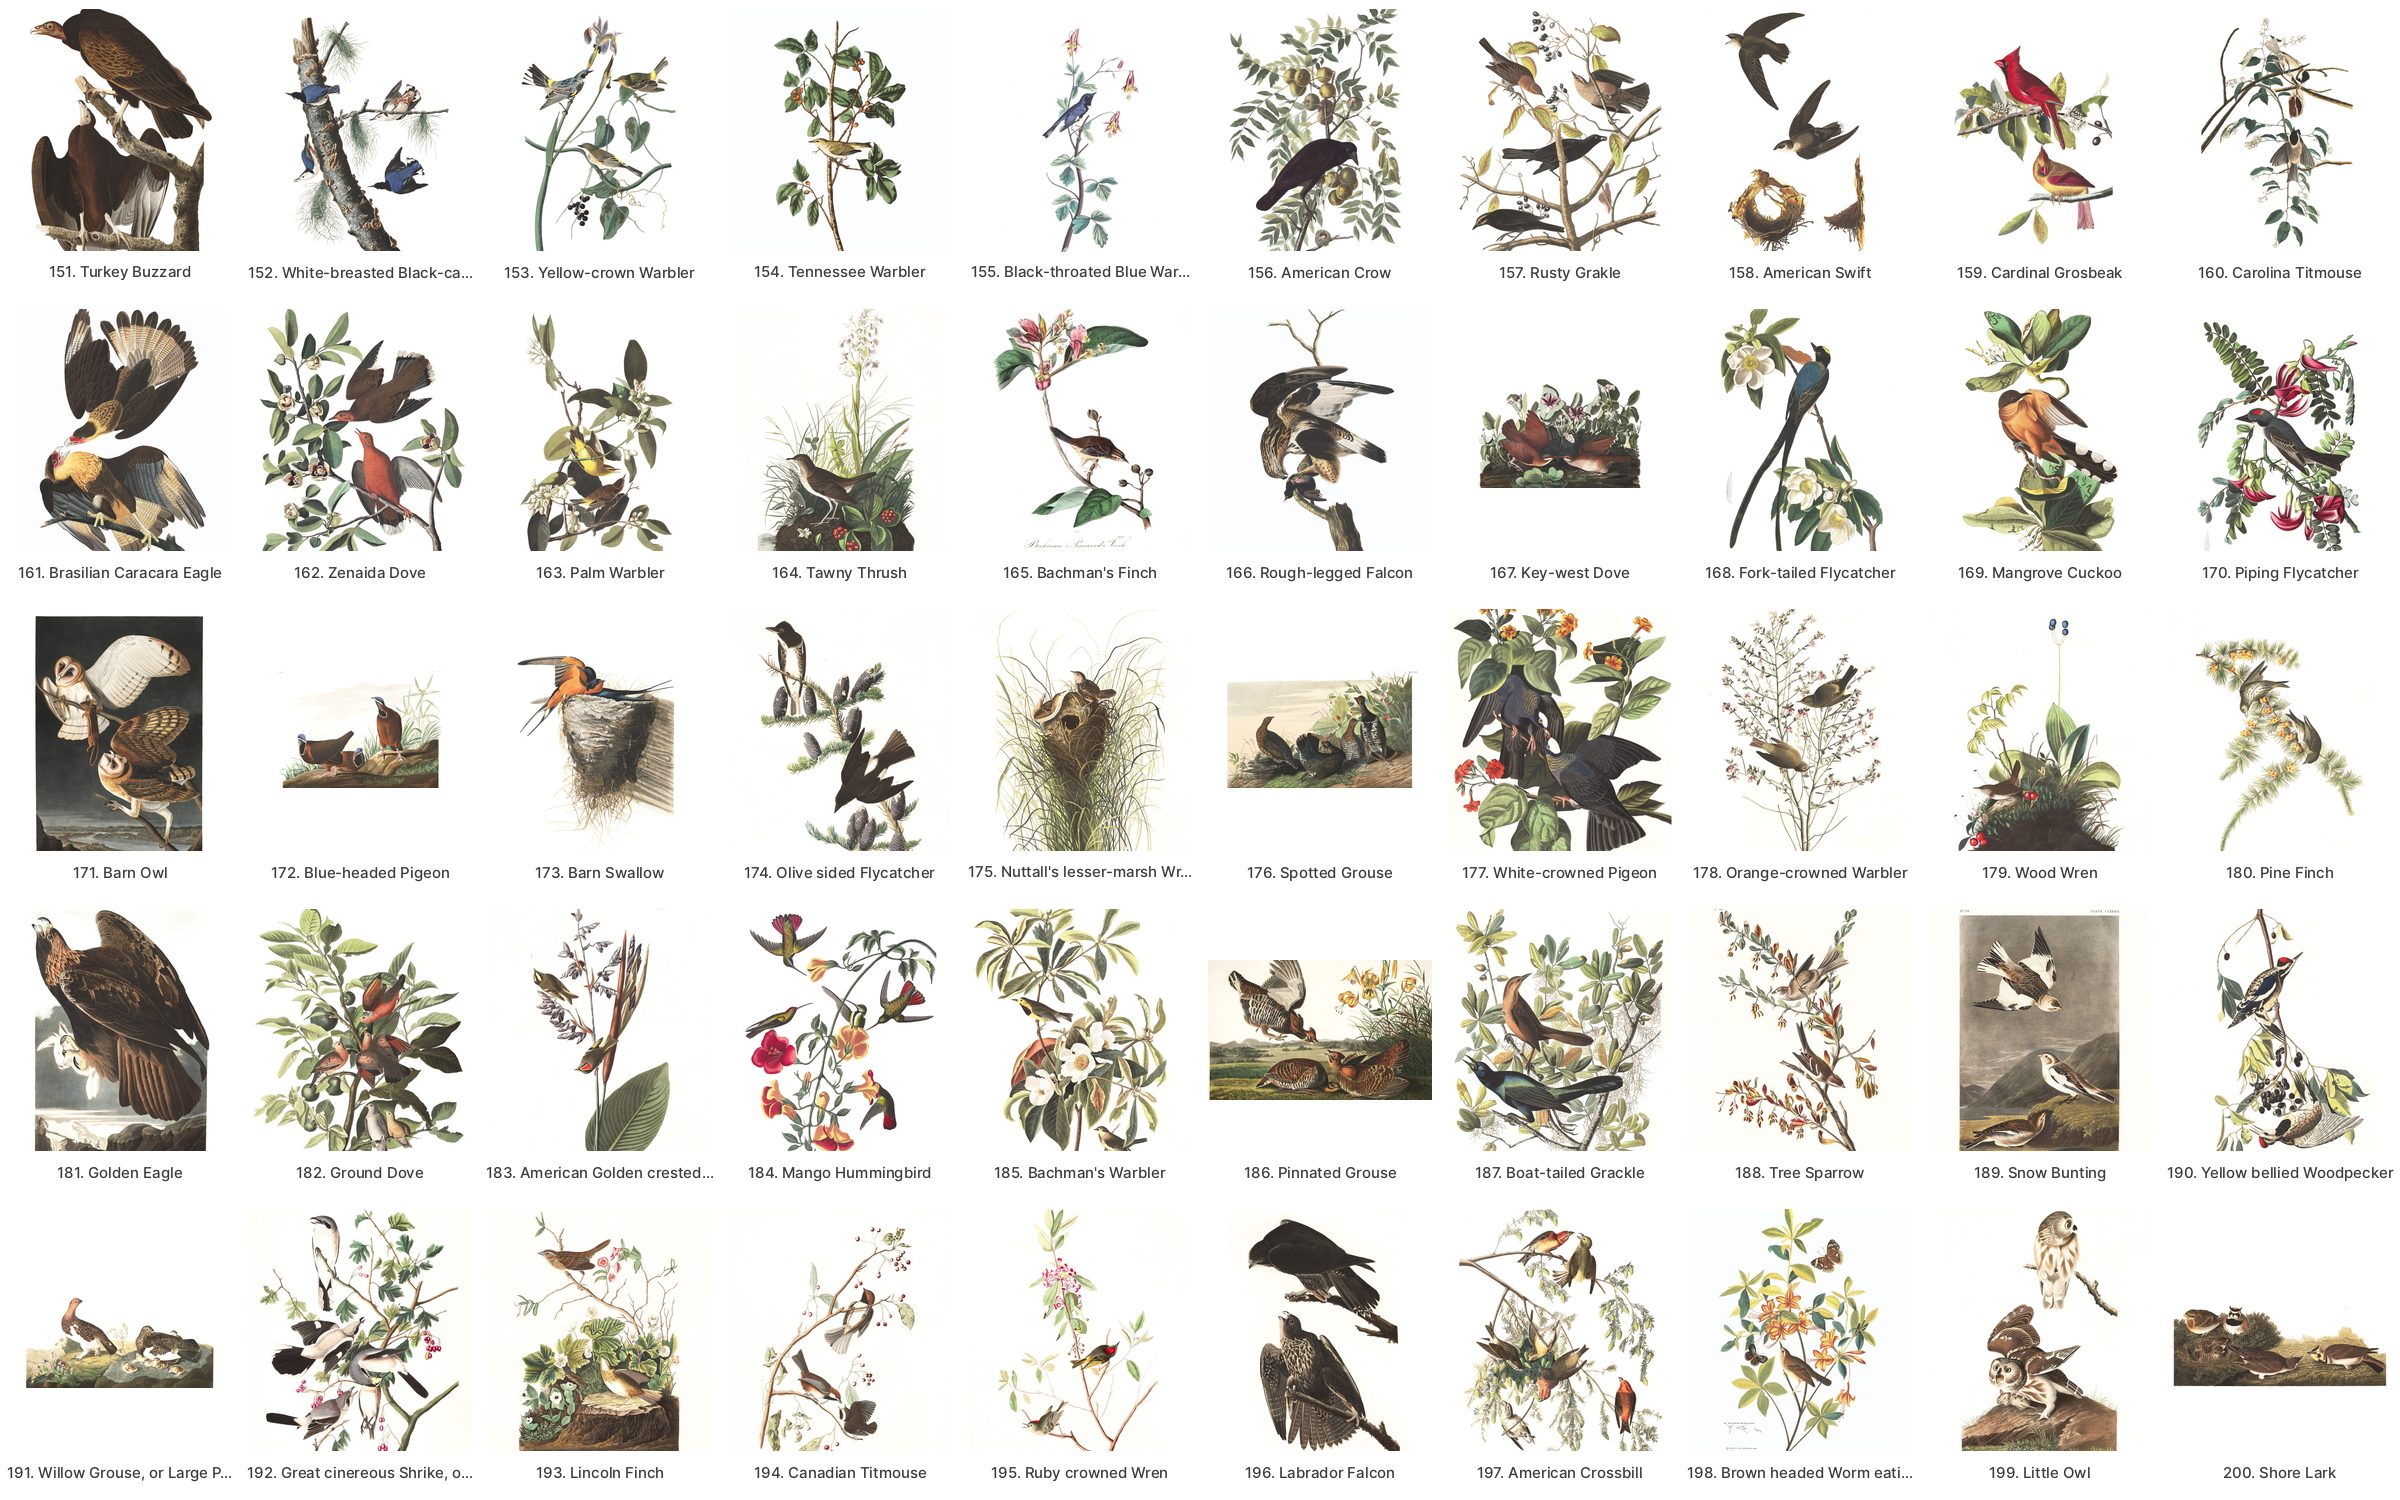
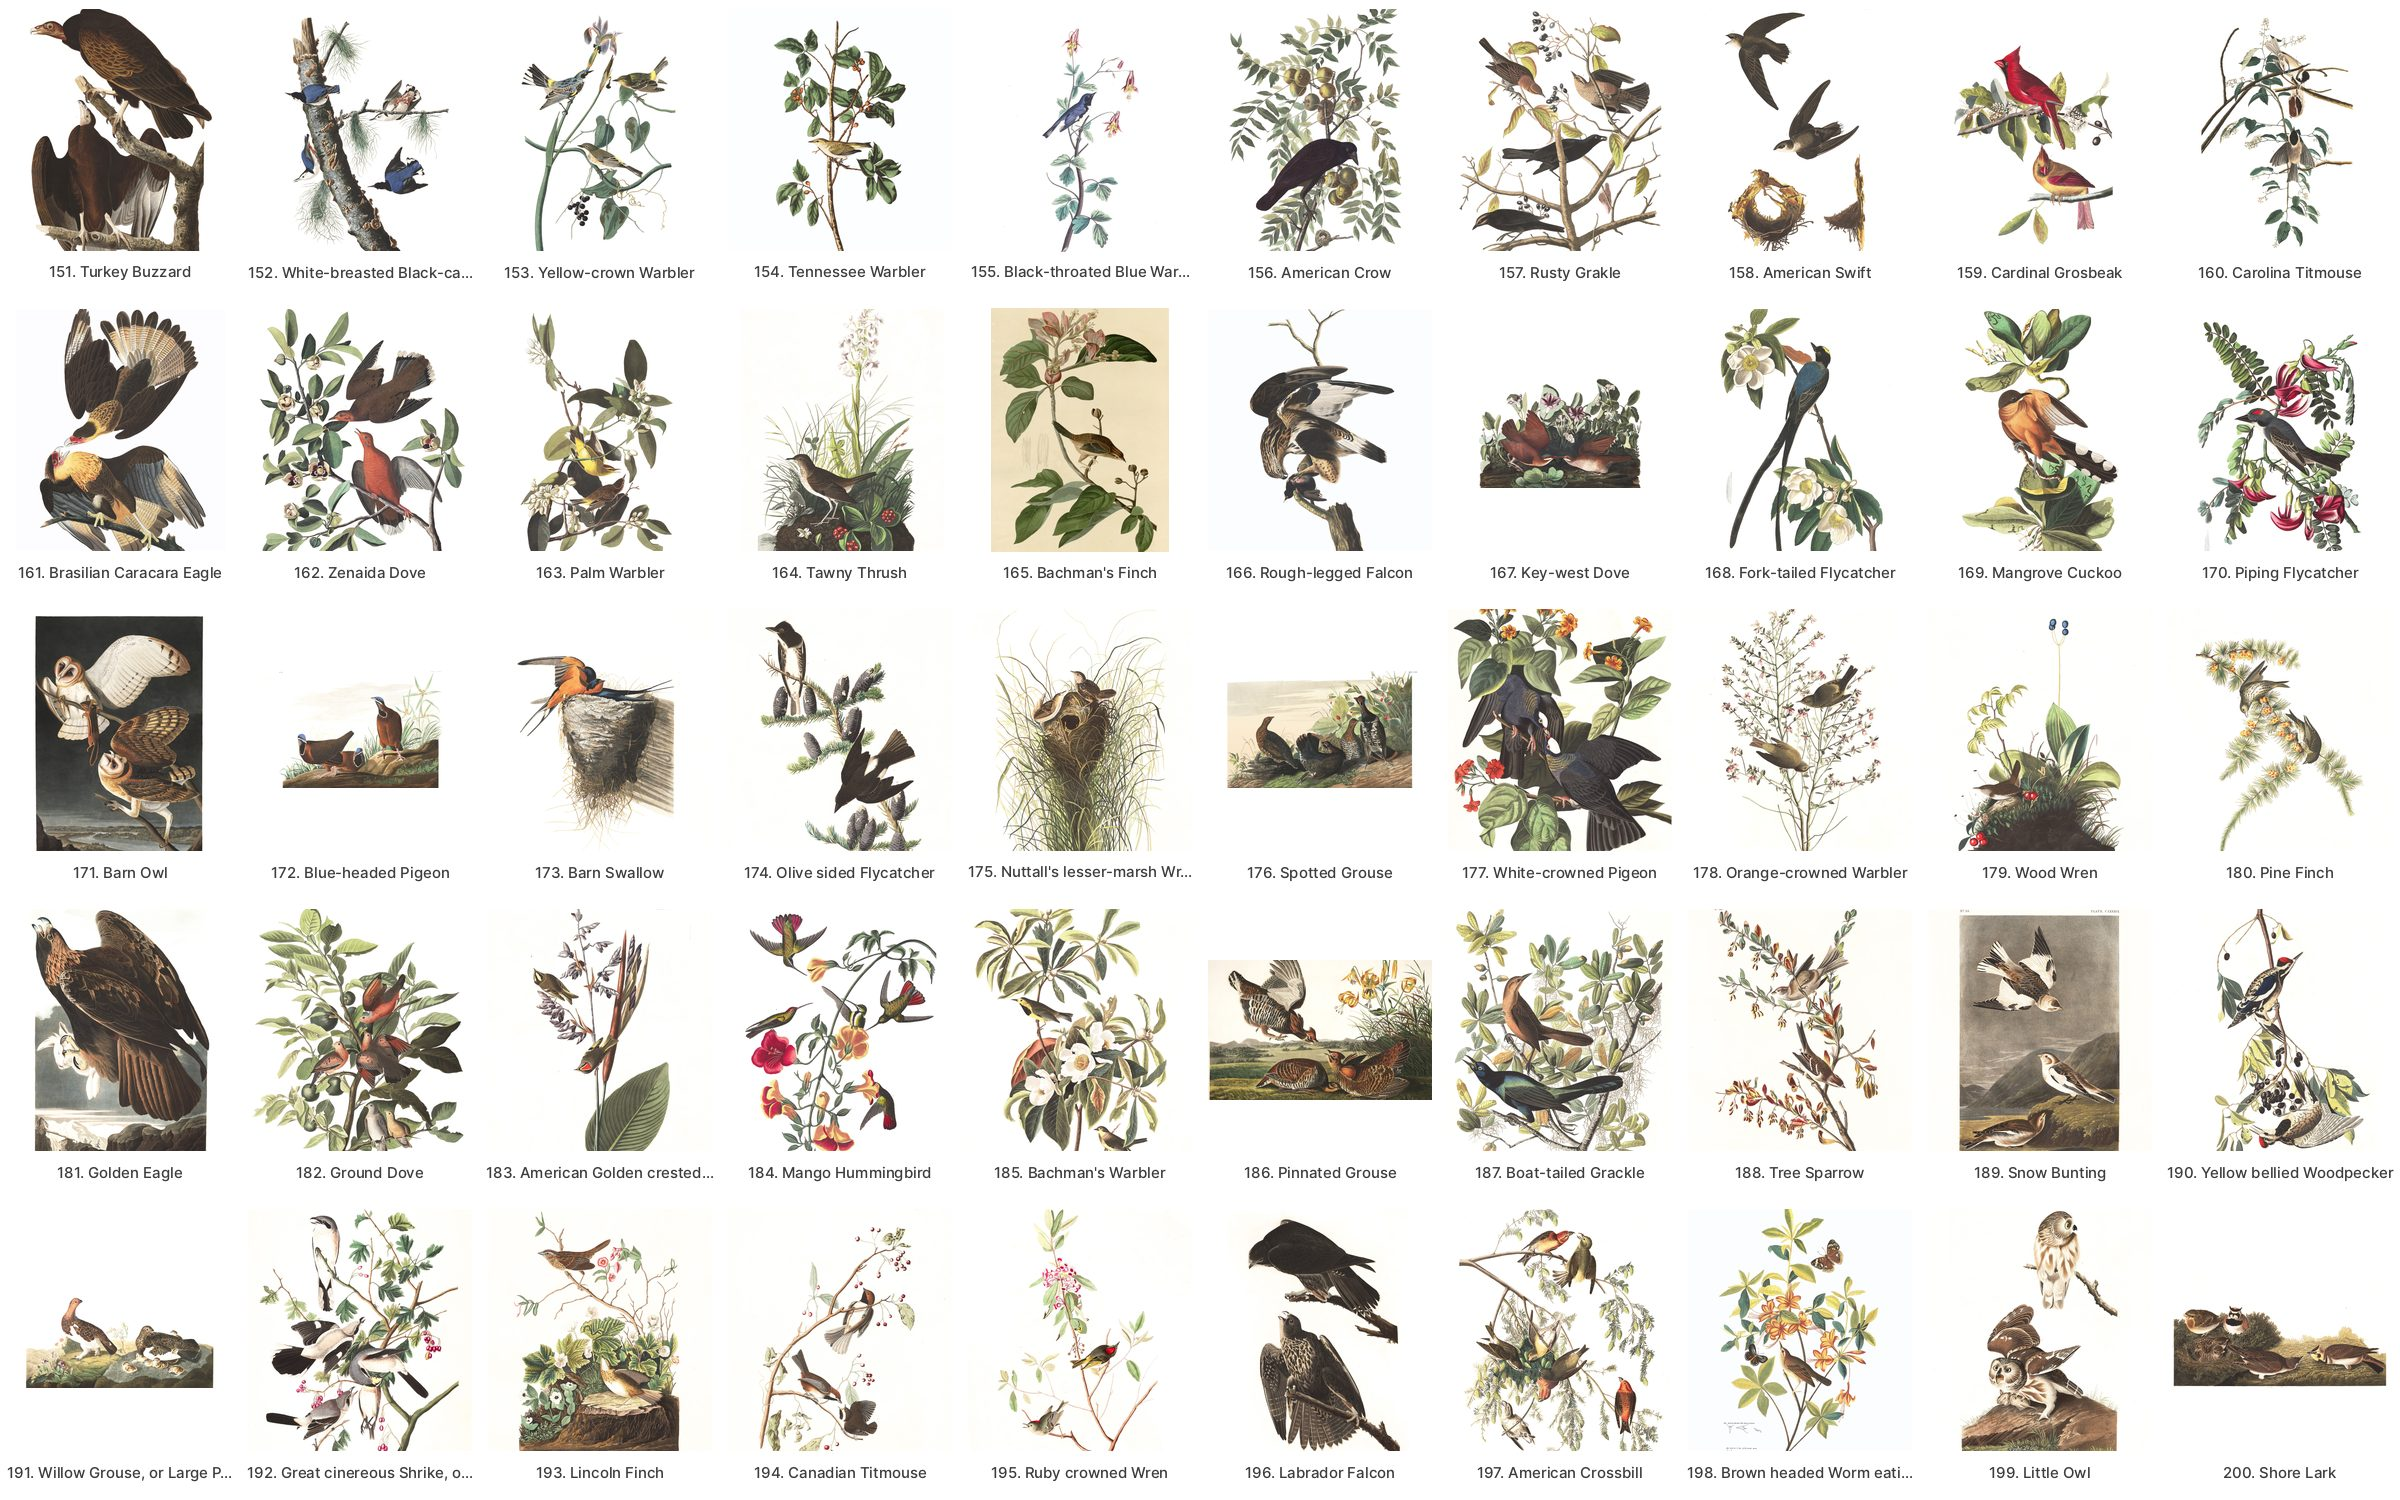
Havell 165: the Havell plate, not the octavo lithograph
audubon.org's file for plate 165 is the octavo edition's Bowen
lithograph. havell-v2 cuts the Havell plate at its plate mark from the
University of Pittsburgh's scan on Wikimedia Commons; the crop is
rebuilt from it. The row gains its Latin, Fringilla bachmani, and the
legend reads as engraved, "Pinckneya Pubens".

Refs: W-943

Changed region(s): [[0.4062, 0.184, 0.5, 0.368]]

diff --git a/havell/README.md b/havell/README.md
@@ -4,12 +4,12 @@
 
 ## Images
 
-Release [`havell-v1`](https://github.com/wr/historical-bird-plates/releases/tag/havell-v1) has two images of every plate. `manifest.json` and `SHA256SUMS` give each file's sha256.
+Release [`havell-v2`](https://github.com/wr/historical-bird-plates/releases/tag/havell-v2) has two images of every plate. `manifest.json` and `SHA256SUMS` give each file's sha256.
 
-- **`sheet-NNN.jpg`**: the full plate, as audubon.org publishes it, unaltered. About 2.7 GB.
+- **`sheet-NNN.jpg`**: the full plate, as audubon.org publishes it, unaltered. About 2.7 GB. Plate 165 is the exception: audubon.org's file is the octavo lithograph, so `havell-v2` cuts the Havell plate at its plate mark from the University of Pittsburgh's scan on [Wikimedia Commons](https://commons.wikimedia.org/wiki/File:165_Bachmans_Finch.jpg) (public domain).
 - **`crop-NNN.jpg`**: the same plate with its lettering trimmed away: the plate number along the top and the engraved caption along the bottom. It is the whole engraving, never one bird of a sheet. About 250 MB.
 
-Credit the scans: *Courtesy of the John James Audubon Center at Mill Grove, Montgomery County Audubon Collection, and Zebra Publishing.*
+Credit the scans: *Courtesy of the John James Audubon Center at Mill Grove, Montgomery County Audubon Collection, and Zebra Publishing.* Plate 165: *University of Pittsburgh, via Wikimedia Commons.*
 
 - **Rights:** the plates are public domain, and a faithful photograph of a public-domain plate carries no copyright of its own in the US. The images are marked with the [Public Domain Mark](https://creativecommons.org/publicdomain/mark/1.0/). audubon.org offers them under its [terms of use](https://www.audubon.org/terms-use); please follow its credit line.
 - **Other mirrors:** Nathan Buchar's [audubon-bird-plates](https://github.com/nathanbuchar/audubon-bird-plates) holds the same files. Public-domain scans of other copies are on [Wikimedia Commons](https://commons.wikimedia.org/wiki/Category:The_Birds_of_America) and at the University of Pittsburgh's [Darlington Library](https://digital.library.pitt.edu/collection/audubon-birds-america).
@@ -61,7 +61,7 @@ Every plate with its lettering trimmed, by Havell number.
   - `legend` is the lines engraved under the title and Latin name: the figure key and the plant or setting, in Audubon's spelling, transcribed from the scans' caption bands.
 - **`species.csv`**: one row per plate and modern species. On a sheet with several species, `figure` is that species' own key.
   - `printed_name` is the English title engraved on this release's scan, read off all 435 sheets on 1 Oct 2026, in the engraver's spelling: "Ruffed Grous", "Belted Kingsfisher", "Great Red brested Rail or Fresh-water Marsh hen". Case and hyphens are not compared. On a sheet with several species it is that bird's own title; a bird named only in the legend (284 fig. 3, 285 fig. 2) or a plate with no English title (245) carries its Latin. Where the scan and audubon.org's `title` differ, as on plates 48, 153, 198 and 263, the row's `reason` gives both.
-  - `printed_latin` is the line of capitals under the title, without its author, written as *Genus epithet* in the engraver's spelling and ligatures: *Fringilla corulea*, *Litta carolinensis*, *Hœmatopus bachmani*. It was read twice, independently, and the reads agreed on all but five lines, each settled on the scan. It is blank on 165 (the octavo scan), 270 (too faint to read letter by letter) and 419 fig. 2, whose title "Ptiliogony's Townsendi" is itself the Latin. Plate 28 swaps the two: its script title is *Vireo Solitarius* and its capitals "SOLITARY FLYCATCHER".
+  - `printed_latin` is the line of capitals under the title, without its author, written as *Genus epithet* in the engraver's spelling and ligatures: *Fringilla corulea*, *Litta carolinensis*, *Hœmatopus bachmani*. It was read twice, independently, and the reads agreed on all but five lines, each settled on the scan. It is blank on 270 (too faint to read letter by letter) and 419 fig. 2, whose title "Ptiliogony's Townsendi" is itself the Latin. Plate 28 swaps the two: its script title is *Vireo Solitarius* and its capitals "SOLITARY FLYCATCHER".
 
 ## How the plates were identified
 
@@ -77,7 +77,7 @@ Every plate with its lettering trimmed, by Havell number.
 ## Traps
 
 - **Plate 50 is a young Magnolia Warbler.** These scans carry its 1828 lettering, "Swainson's Warbler, *Sylvicola swainsonia*". Audubon wrote in 1831 that one drawing had been engraved in place of another while he was away from London, and the plate was re-lettered "Black and yellow warbler, *Sylvia maculosa*, young male". It is not the Swainson's Warbler of plate 198, which Audubon described in 1834. The adult Magnolia pair is plate 123.
-- **Plate 165's scan is not the Havell plate.** audubon.org's file, and so `sheet-165.jpg`, is the octavo edition's small lithograph (J. T. Bowen, Philadelphia), lettered "Bachman's Pinewood-Finch", at 1082 × 1314 pixels. The row keeps the Havell title, "Bachman's Finch".
+- **Plate 165's audubon.org file is not the Havell plate.** It is the octavo edition's small lithograph (J. T. Bowen, Philadelphia), lettered "Bachman's Pinewood-Finch", at 1082 × 1314 pixels; `havell-v1` carried it. From `havell-v2`, `sheet-165.jpg` is the Havell plate, from the University of Pittsburgh's copy.
 - **Plate 132's "Three-toed Woodpecker" is the Black-backed.** Every back on the plate is solid black, and Audubon himself called it Swainson's *Apternus arcticus* (1839). The American Three-toed is 417, figs. 3–4.
 - **Plate 229's "Scaup Duck" is the Lesser Scaup.** Audubon wrote in 1844 that the bird "figured in my large plates" was the smaller species.
 - **Plate 247's "Velvet Duck" is the White-winged Scoter**, the American daughter of the split; BirdNET still lumps the two, so its label is the Velvet Scoter's.

diff --git a/README.md b/README.md
@@ -14,7 +14,7 @@ Old plates name their birds the way their authors did, and many of those names n
 
 [![Wild Turkey, American Flamingo, Carolina Parakeet, Snowy Owl, Roseate Spoonbill](img/preview-havell.jpg)](havell/#the-plates)
 
-435 plates · 428 identified · [browse all plates](havell/#the-plates) · [tables](havell/) · [images](https://github.com/wr/historical-bird-plates/releases/tag/havell-v1)
+435 plates · 428 identified · [browse all plates](havell/#the-plates) · [tables](havell/) · [images](https://github.com/wr/historical-bird-plates/releases/tag/havell-v2)
 
 ### Gould, *The Birds of Europe* (1832–37)
 
@@ -179,7 +179,7 @@ Every folio folder has `plates.csv` and `species.csv`. Some also have `ku-disagr
 
 ### Images
 
-Each Gould release has two cuts of every plate leaf. `havell-v1` has audubon.org's plates as published, plus crops with the lettering removed.
+Each Gould release has two cuts of every plate leaf. `havell-v2` has audubon.org's plates as published (165 excepted), plus crops with the lettering removed.
 
 - **`sheet-…`:** the full sheet, stood upright, with the paper evened and cleared to white and the caption kept.
 - **`crop-…`:** the art alone, with the caption and pencilled number cut away and a white margin added. *Australia* and *Asia* ship their crops as `crops.zip`.
